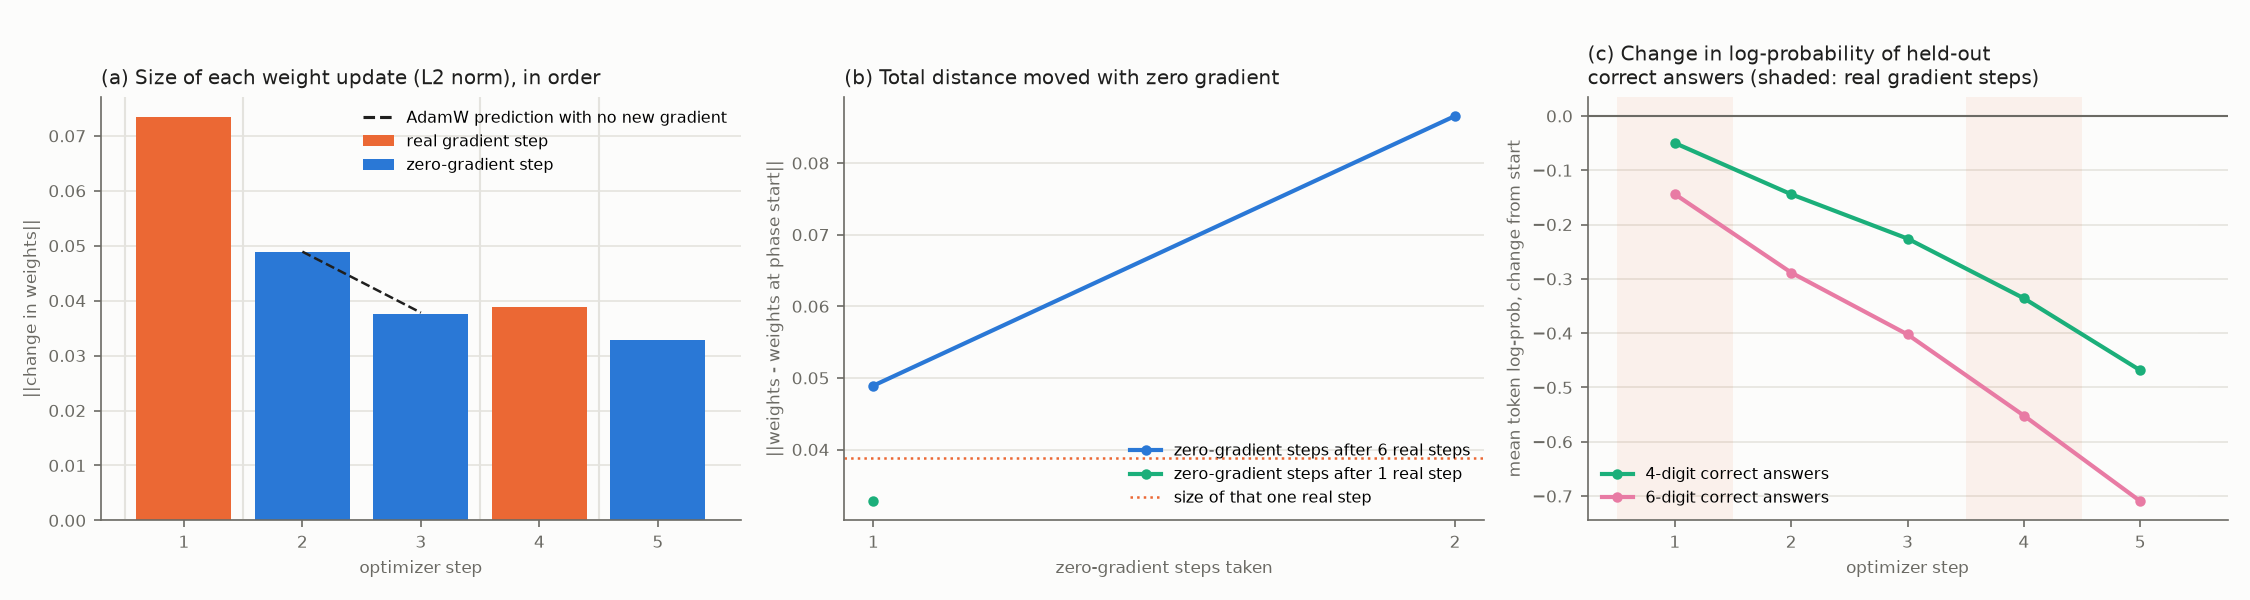
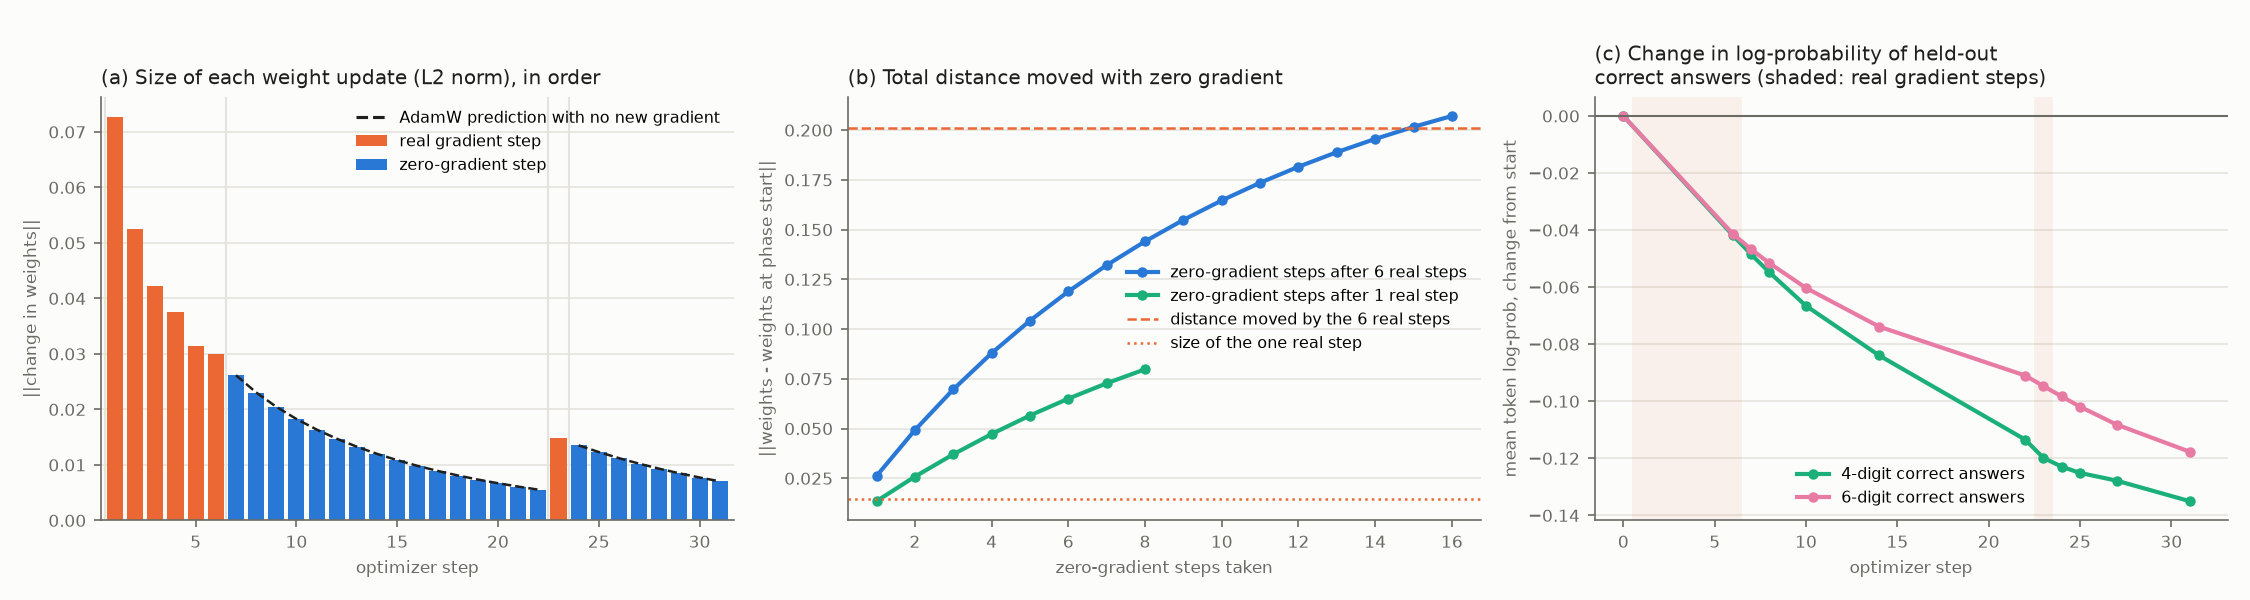
s02 report: full momentum measurement (Fig 10), validity notes; figure fixes

diff --git a/reports/Nov-15-2026-02-vineeth-babel-slurm-interference-dynamics/build/figs_extra.py b/reports/Nov-15-2026-02-vineeth-babel-slurm-interference-dynamics/build/figs_extra.py
@@ -306,13 +306,17 @@ def fig_momentum_cpu(path, out):
         ax.plot([r["step"] for r in ph], [r["cum_from_phase_start"] for r in ph], color=SLOTS[slot], marker="o",
                 markersize=4, linewidth=2, label=f"zero-gradient steps {lab}")
     single = [r for r in seq if r["phase"] == "single"]
+    warm = [r for r in seq if r["phase"] == "warmup"]
+    if warm:
+        ax.axhline(warm[-1]["cum_from_phase_start"], color=SLOTS[1], linewidth=1.2, linestyle="--",
+                   label="distance moved by the 6 real steps")
     if single:
         ax.axhline(single[0]["step_norm"], color=SLOTS[1], linewidth=1.2, linestyle=":",
-                   label="size of that one real step")
+                   label="size of the one real step")
     ax.set_title("(b) Total distance moved with zero gradient", fontsize=9.5, color=INK, loc="left")
     ax.xaxis.get_major_locator().set_params(integer=True)
     ax.set_xlabel("zero-gradient steps taken", fontsize=8, color=MUTED); ax.set_ylabel("||weights - weights at phase start||", fontsize=8, color=MUTED)
-    ax.legend(frameon=False, fontsize=7.5, loc="lower right")
+    ax.legend(frameon=False, fontsize=7.5, loc="center right")
     # (c) policy change on held-out correct answers
     ax = axes[2]; style(ax)
     pr = [(i + 1, r) for i, r in enumerate(seq) if isinstance(r.get("probe"), dict)]
@@ -322,8 +326,8 @@ def fig_momentum_cpu(path, out):
     base = first_probe[0]["probe"] if first_probe else {}
     for f, slot in zip(files, (2, 4)):
         lab = "4-digit" if "d4" in f else "6-digit"
-        ax.plot([i for i, _ in pr], [r["probe"][f] - base[f] for _, r in pr], color=SLOTS[slot], marker="o", markersize=4,
-                linewidth=2, label=f"{lab} correct answers")
+        ax.plot([0] + [i for i, _ in pr], [0.0] + [r["probe"][f] - base[f] for _, r in pr], color=SLOTS[slot], marker="o",
+                markersize=4, linewidth=2, label=f"{lab} correct answers")
     for start, n, name in bounds:
         ax.axvspan(start + 0.5, start + n + 0.5, color=SLOTS[1] if name in ("warmup", "single") else SURFACE, alpha=0.08, linewidth=0)
     ax.axhline(0, color=MUTED, linewidth=1)

diff --git a/reports/Nov-15-2026-02-vineeth-babel-slurm-interference-dynamics/report.md b/reports/Nov-15-2026-02-vineeth-babel-slurm-interference-dynamics/report.md
@@ -388,26 +388,36 @@ by many momentum-carried steps in the same direction.
 These branch observations are indirect: the training logs record gradients and accuracy, not how far the weights
 moved. To measure the movement directly, we ran a controlled
 experiment on CPU with the same model, the same AdamW settings and the same loss. Starting from the base model, we
-applied real policy-gradient steps computed from recorded training groups of the base-9 run, then steps whose
-gradient was exactly zero, then one more real step followed by zero-gradient steps. After every step we measured how
-far the weights had moved, and at intervals the model's average log-probability of held-out correct 4- and 6-digit
-answers. This is a small-scale version (responses shortened to 64 tokens, one warm-up step, two zero-gradient steps
-per phase); it is not a re-run of the collapsed branch, whose checkpoint no longer exists.
+applied six real policy-gradient steps computed from recorded training groups of the base-9 run, then 16 steps whose
+gradient was exactly zero, then one more real step followed by eight zero-gradient steps. After every step we
+measured how far the weights had moved, and at intervals the model's average log-probability of held-out correct
+4- and 6-digit answers (four answers each). The experiment reproduces the optimizer's behaviour, not the collapsed
+branch itself, whose checkpoint no longer exists.
 
 ![Weight movement under zero-gradient steps](figures/momentum_cpu.png)
 
 *Figure 10. Controlled measurement on Qwen3-1.7B with the training optimizer (AdamW, learning rate 2×10⁻⁶). (a)
 Size of each weight update in execution order; orange: real gradient steps, blue: zero-gradient steps; dashed: the
-size AdamW predicts when no new gradient arrives. (b) Total distance moved during zero-gradient steps. (c) Change in
-the mean log-probability of held-out correct answers; shaded columns are real gradient steps.*
+size that AdamW's update rule predicts when no new gradient arrives. (b) Total distance moved during each
+zero-gradient phase, compared with the distance moved by the real steps before it. (c) Change in the mean
+log-probability of held-out correct answers from the starting model; shaded columns are real gradient steps.*
 
-The measurement confirms the mechanism. A zero-gradient step moved the weights by 0.049 in L2 norm, two-thirds of
-the preceding real step (0.073) and more than a later real step (0.039). Consecutive zero-gradient updates pointed in
-the same direction (cosine similarity 0.99995), and each was smaller than the last by exactly the factor AdamW's
-update rule predicts (measured 0.770, predicted 0.773). These updates changed the model's behaviour as much as real
-ones: each zero-gradient step lowered the mean log-probability of held-out correct answers by 0.08 to 0.16, while
-each real step changed it by 0.05 to 0.15. Because this run is small, the numbers illustrate the mechanism rather than quantify its size in
-full training.
+The measurement confirms the mechanism and shows that it is large. The first zero-gradient step moved the weights
+87% as far as the last real step before it. Every subsequent zero-gradient update pointed in the same direction as
+the previous one (cosine similarity above 0.9999), and each shrank by exactly the factor that AdamW's update rule
+predicts (agreement within 0.1%). The shrinkage is slow: over 16 zero-gradient steps the weights moved a total
+distance of 0.207, slightly more than the 0.201 moved by the six real steps that built up the momentum. A single
+later real step of size 0.015 was followed by eight zero-gradient steps that moved the weights 0.080, more than five
+times as far as the step itself.
+
+This movement changed the model's behaviour, not just its parameters. The six real steps lowered the log-probability
+of the held-out correct answers by 0.042 (4-digit) and 0.041 (6-digit). The 16 zero-gradient steps that followed
+lowered it by a further 0.072 and 0.050, more than the real steps did. After the single real step, which changed
+these probabilities by less than 0.01, the eight zero-gradient steps changed them by a further 0.015 and 0.023. In
+short, under AdamW a single informative update is followed by a sequence of uninformed updates in the same
+direction, whose combined effect can exceed that of the update itself. These figures come from one short run on
+recorded data with eight probe answers, so they show the size of the effect at this learning rate rather than its
+exact size during full training.
 
 The practical consequence is that an analysis treating rounds with all-equal groups as "null" updates will
 misattribute change. Weight movement continues after the last informative group, its size depends on the gradients
@@ -497,6 +507,11 @@ and whether the brevity effect can be confirmed by direct intervention.
   the report reflects that correction.
 - **Numerical audit.** A sample of 18 reported numbers was recomputed independently, with no discrepancies, and
   every evaluation was confirmed to use 64 problems.
+- **Momentum measurement.** The CPU experiment was first run as a small canary. Probes taken at identical weights
+  gave identical values, so the probe is deterministic; and the measured step sizes matched AdamW's update rule to
+  within 0.1%, confirming that the experiment reproduces the optimizer exactly.
+- **Terse failure types.** The format failures in Section 3.1 were counted from the stored grader verdicts of every
+  evaluation answer, not inferred from accuracy or length.
 - **Operational events.** One run was resumed after preemption and replayed eight rounds. Its evaluations were
   unaffected, and duplicated training records were excluded from all counts. When shared storage filled, two
   runs ended after their final evaluations, so their results are complete; a third was rerun from the start. One
